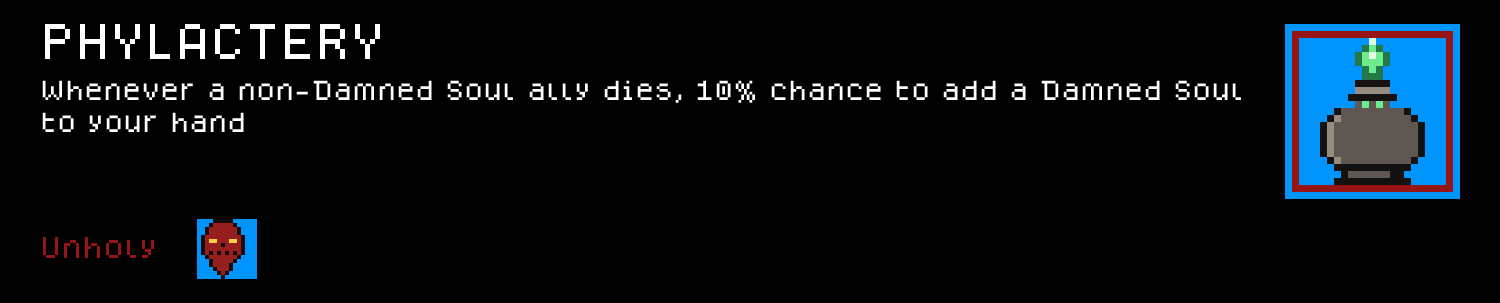
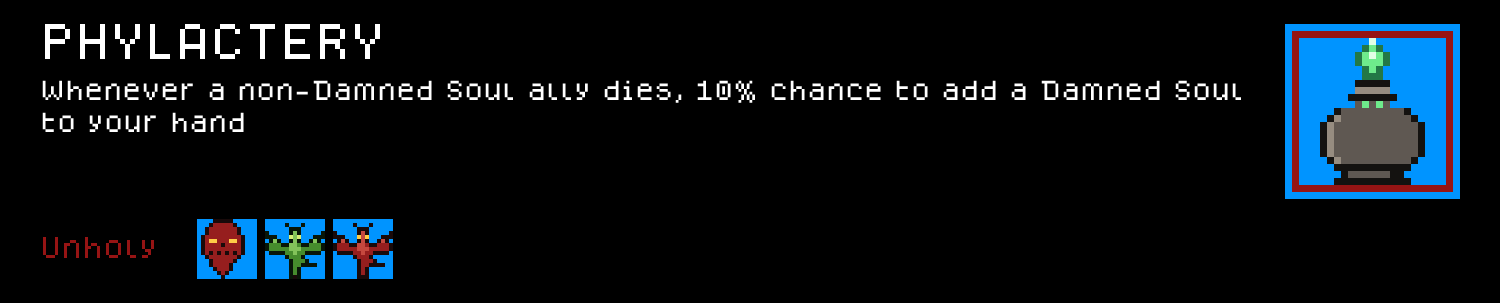
Read ReferenceCube: declarations for Referenced Cubes; fix README gaps
render_preview_cards.py's Referenced Cubes row was purely a CubeConstant/
HiddenCubeConstant heuristic scan, but the real authoritative mechanism is
the ReferenceCube: PERK field authors already use (dragon-egg lines, and
perks granting a random cube from a pool with no literal CubeConstant
token to scan). War_Dragon_Egg/Lichdom-style cards were rendering an empty
Referenced Cubes row despite explicit declarations, because their only
CubeConstant token was a self-reference the heuristic correctly excludes.
referenced_cubes_for() now reads ReferenceCube: first (not self-filtered),
falling back to the heuristic scan, and drops any name with no resolvable
icon instead of reserving blank footer space for it (caught on Great_Wall's
own terrain-cube references).

Also add General's Annex/Retreat and Unholy's Hellstorm to their READMEs
-- existing preview cards that were never linked in, found via an
audit-all-mods pass prompted by the user noticing Annex/Retreat missing.

Changed region(s): [[0.1533, 0.7129, 0.276, 0.9208]]

diff --git a/.claude/skills/cube-chaos-sprite-art/scripts/render_preview_cards.py b/.claude/skills/cube-chaos-sprite-art/scripts/render_preview_cards.py
@@ -1283,12 +1283,59 @@ def build_cube_icon_index(mod_dir, mod_prefix):
             for i, b in enumerate(blocks)}
 
 
+REFERENCE_CUBE_RE = re.compile(r'^ReferenceCube:\s*(\w+)')
+
+
 def referenced_cubes_for(lines, self_name):
-    """find_referenced_cubes + CUBE_NAME_TO_ICON icon lookup, in one call --
-    the common path every card category (CUBE and PERK alike) uses to build
-    its `ref_cubes` list for render_card/render_cube_card's footer row."""
-    ref_names = find_referenced_cubes(lines, self_name, COMPOUND_DOCS)
-    return [(n, CUBE_NAME_TO_ICON.get(n)) for n in ref_names]
+    """The common path every card category (CUBE and PERK alike) uses to
+    build its `ref_cubes` list for render_card/render_cube_card's footer
+    row. Two sources, combined:
+    1. Explicit `ReferenceCube: <Name>` declarations -- a real, repeatable
+       `PERK:` field (see cube-chaos-scripting's authoring-and-inheritance.md,
+       confirmed real usage e.g. Cryomancer.c.txt:68-70) that an author uses
+       specifically to curate a perk's tooltip cube list -- e.g. an egg perk
+       declaring its whole egg/baby/adult chain (General's `War_Dragon_Egg`
+       declares all 3 stages), or a perk that grants a RANDOM cube from a
+       pool declaring every possible pick (Unholy's `Lichdom` declares
+       `Damned_Soul`/`Plague_Imp`/`Imp`, none of which appear as a literal
+       `CubeConstant` token anywhere in its own Ability: chain -- the actual
+       selection goes through `ARandomCubeInLibraryWhich`-style productions
+       the heuristic scan below has no way to enumerate). These are
+       AUTHORITATIVE and NOT self-name-filtered -- a perk can and does
+       legitimately declare a `ReferenceCube:` matching its own name (e.g.
+       `War_Dragon_Egg` itself lists `ReferenceCube: War_Dragon_Egg`, to
+       show the exact cube it grants), unlike the heuristic scan's
+       self-exclusion. Missed entirely until 2026-08-02 -- this script had
+       no `ReferenceCube:` support at all, so any perk whose own Ability:
+       chain only referenced ITSELF (e.g. `War_Dragon_Egg`'s
+       `FreeCopy CubeConstant War_Dragon_Egg`) rendered with an empty
+       Referenced Cubes row despite explicitly declaring 3 relevant cubes.
+    2. The `find_referenced_cubes` heuristic scan (`CubeConstant`/
+       `HiddenCubeConstant` tokens), for cubes a perk creates/copies/obtains
+       but never explicitly declared -- still useful as a fallback for
+       perks with no `ReferenceCube:` field of their own (most of them).
+    Declared names come first (file-declaration order), then any
+    heuristic-found names not already covered, deduped."""
+    declared = []
+    for l in lines:
+        m = REFERENCE_CUBE_RE.match(l)
+        if m:
+            declared.append(m.group(1))
+    seen = set(declared)
+    names = list(declared)
+    for n in find_referenced_cubes(lines, self_name, COMPOUND_DOCS):
+        if n not in seen:
+            seen.add(n)
+            names.append(n)
+    # Drop any name with no resolvable icon (a genuinely cross-mod/base-game
+    # reference, or -- as with Great_Wall's ReferenceCube: Anchored_Basalt/
+    # Water/Catapult -- a name that isn't in ANY _Cubes.c.txt at all, e.g. a
+    # terrain-scenario TOKEN cube defined inline elsewhere) rather than
+    # keeping a name-less blank entry: since this footer never shows text
+    # (see draw_footer_row), an icon-less entry contributes nothing visible
+    # but still reserved a full footer row's worth of vertical space --
+    # caught by eye comparing Great_Wall's card before/after this fix.
+    return [(n, CUBE_NAME_TO_ICON[n]) for n in names if n in CUBE_NAME_TO_ICON]
 
 
 def build_cubes():

diff --git a/.claude/skills/cube-chaos-sprite-art/SKILL.md b/.claude/skills/cube-chaos-sprite-art/SKILL.md
@@ -558,7 +558,10 @@ Key facts baked into that script, established by reverse-engineering the game's 
   2. Dropped the "Referenced Cubes:" text label — icon(s) immediately next to the class/species entry read as self-explanatory without it.
   3. Dropped the class/species ICON (kept the name, in its own color) and dropped each referenced cube's NAME (kept the icon) — both name/icon pairs had become redundant once shown side-by-side with the other half of the row.
   - **Class/species name**, in that class/species's own color. `find_class_species()` reads slot 0 of whichever file `perks_source_basenames()` finds first — confirmed across every mod that has one (DJ/General/Broker's class perk, Unholy/Voidling's species perk) that this is always the file's first `PERK:` block, matching the "Base class/species icon style" fill-equals-border convention above. **Sample the color with `sample_dominant_color()`, which excludes the SHEET's own default background `(0,148,255)`, not this script's black card-canvas `BG`** — an early version of this popped the wrong background color and returned the sheet's blue as "the class color" for Unholy (verified: a guaranteed-blank/mostly-background tile is ~72% `(0,148,255)` pixels vs ~28% the real `(150,20,20)` icon/border color). Mods with no class/species of their own (`Great_Wall`, `Home_Turf_Advantage` — Terrain/Neutral-only) simply omit that half of the row. Computed once per mod into the `CLASS_SPECIES` global (`render_mod()`), not per card — every category shares the same value.
-  - **Referenced cubes**: any cube a `CUBE:`/`PERK:` block's own lines create/copy/obtain via a `CubeConstant <Name>`/`HiddenCubeConstant <Name>` token pair (`find_referenced_cubes` — a `CUBE`-typed arg is always spelled as that keyword plus the name, never the name alone, same fact `resolve_builtin_ability_text` already relies on). Scans the WHOLE block body, not just top-level lines, since these references usually live on indented sub-lines of a chain (or, for a `PERK:`, an `ObtainAction: AddCubeToDeck/AddCubeToInventory CubeConstant <Name>` line — confirmed working via DJ's own `PERK: DJ`, which obtains `Microphone`/`Speaker` this way). **Also expands one hop into a bare top-level `Ability: <CompoundName>` grant's own body** — DJ's `Speaker` grants `Ability: SpeakerNoteSpawn` with zero inline args, and it's `SpeakerNoteSpawn`'s own body (not Speaker's) that contains `CubeConstant Note`. Not followed recursively past one hop. **Excludes any `SetSpriteToCube CubeConstant <Name>` target** — that's the "directional cube icon" sprite-swap pattern (`_Arc`/`_West` icon-only helper cubes, see below), not a cube actually being created; real case caught reading rendered cards back: General's `Bomber`/`Drop_Helicopter`/`Baby_War_Dragon` each swap to a `_West` icon-only twin when reversing direction, and that swap target was showing up as if it were a spawned cube. A referenced name resolves to a real icon via the `CUBE_NAME_TO_ICON` global (`build_cube_icon_index()`, this mod's own `_Cubes.c.txt`/sheet, computed once per mod in `render_mod()` and shared by every card category — a `PERK:` card resolves against the same pool as a `CUBE:` card, not a separate lookup); a name not found there (base game, another mod — none exist in this repo's mods yet) shows nothing for that entry rather than crashing.
+  - **Referenced cubes, from TWO sources (`referenced_cubes_for()`), declared names first:**
+    1. **Explicit `ReferenceCube: <Name>` declarations — the actual authoritative mechanism, missed entirely until 2026-08-02.** `ReferenceCube:` is a real, repeatable `PERK:` field (see `cube-chaos-scripting/references/authoring-and-inheritance.md`, confirmed real usage e.g. `Characters/Classes/Cryomancer.c.txt:68-70`) that an author uses specifically to curate a perk's tooltip cube list — this repo's own mods already use it for every dragon-egg-line perk (e.g. General's `War_Dragon_Egg` declares `War_Dragon_Egg`/`Baby_War_Dragon`/`War_Dragon`, showing the whole evolution chain even though the perk's own `Ability:` only ever grants itself) and for perks that grant a cube from a random pool where no single literal `CubeConstant` token exists to scan (Unholy's `Lichdom` declares `Damned_Soul`/`Plague_Imp`/`Imp`, none of which appear as a literal `CubeConstant` anywhere in its body — the actual pick goes through an `ARandomCubeInLibraryWhich`-style production). **Not self-name-filtered** — `War_Dragon_Egg` legitimately declares `ReferenceCube: War_Dragon_Egg` (its own name) to show the exact cube it grants, unlike source 2 below. Real regression this fix caught: before it, `War_Dragon_Egg`'s card rendered with an EMPTY Referenced Cubes row despite 3 explicit declarations, because its only `CubeConstant` token (`FreeCopy CubeConstant War_Dragon_Egg`) was a self-reference the heuristic scan correctly excludes — the heuristic was never the real mechanism for this case, `ReferenceCube:` was.
+    2. **The heuristic scan** (`find_referenced_cubes`): any cube a `CUBE:`/`PERK:` block's own lines create/copy/obtain via a `CubeConstant <Name>`/`HiddenCubeConstant <Name>` token pair (a `CUBE`-typed arg is always spelled as that keyword plus the name, never the name alone, same fact `resolve_builtin_ability_text` already relies on). Scans the WHOLE block body, not just top-level lines, since these references usually live on indented sub-lines of a chain (or, for a `PERK:`, an `ObtainAction: AddCubeToDeck/AddCubeToInventory CubeConstant <Name>` line — confirmed working via DJ's own `PERK: DJ`, which obtains `Microphone`/`Speaker` this way). **Also expands one hop into a bare top-level `Ability: <CompoundName>` grant's own body** — DJ's `Speaker` grants `Ability: SpeakerNoteSpawn` with zero inline args, and it's `SpeakerNoteSpawn`'s own body (not Speaker's) that contains `CubeConstant Note`. Not followed recursively past one hop. **Excludes any `SetSpriteToCube CubeConstant <Name>` target** — that's the "directional cube icon" sprite-swap pattern (`_Arc`/`_West` icon-only helper cubes, see below), not a cube actually being created; real case caught reading rendered cards back: General's `Bomber`/`Drop_Helicopter`/`Baby_War_Dragon` each swap to a `_West` icon-only twin when reversing direction, and that swap target was showing up as if it were a spawned cube. This heuristic is now purely a fallback for perks/cubes with no `ReferenceCube:` field of their own (most of them), self-name-excluded as before (a self-reference from an incidental copy operation isn't the same signal as an explicit author declaration).
+    - A referenced name resolves to a real icon via the `CUBE_NAME_TO_ICON` global (`build_cube_icon_index()`, this mod's own `_Cubes.c.txt`/sheet, computed once per mod in `render_mod()` and shared by every card category — a `PERK:` card resolves against the same pool as a `CUBE:` card, not a separate lookup). **A name with no resolvable icon is dropped entirely, not kept as a name-less blank entry** — since this footer never shows text, an icon-less entry contributed zero visible content but still reserved a full footer row's worth of blank vertical space (caught comparing Great_Wall's `Great_Wall` terrain-perk card before/after this fix — its `ReferenceCube: Anchored_Basalt`/`Water`/`Catapult` name terrain-scenario `TOKEN` cubes that live outside any `_Cubes.c.txt`, so none resolve to an icon, and the card had grown a blank gap at the bottom for nothing).
 - **A `CUBE` with a `TRIGGER`-type `Animation:` line also gets a looping `.gif` next to its static card** (`<ModPrefix>_Cubes_<CubeName>_<AnimName>.gif`, added 2026-07-30), so a README can actually show the flourish instead of just a static icon. `build_cube_animation_gifs()` reads the frame order/speed straight from the real `Animation:` line (see `cube-chaos-scripting`'s `cube-animation.md` for why the LAST frame is the idle pose, not frame 0, and why each flourish frame's duration is `Thresholds[i+1] * 16ms`) — the only liberty taken is compressing the idle pause between triggers to a fixed `GIF_IDLE_REST_MS` instead of the cube's real (often many-second) cadence, so the loop stays watchable. Only `TRIGGER` is handled; `CLOCK`/`HP`/`DOUBLE`/`BOOLEAN`/`TIME` would each need their own playback logic if a mod ever uses one. **README convention: a compact `<table>` right after the cube's static card, 2 animation entries per row** — each entry is a (trigger condition, gif) pair (e.g. `On Cube Creation` for DJ's `Speaker`, whose animation is tied to the ability that creates its Note), `valign="middle"` on every cell, and a new row starts after every 2nd entry (a mod with an odd number of animated cubes just leaves the last row's second pair absent — don't pad it with an empty cell). **No inline `style=` attribute for borders/padding — GitHub's README sanitizer strips the `style` attribute entirely, so any attempt to suppress or customize cell borders (e.g. `border: none`, a single divider line between the two entry-pairs) silently does nothing; what actually renders is GitHub's own default `.markdown-body table` CSS, which always draws a full grid line around every cell of every `<table>`, with no author override available.** Confirmed 2026-07-30: an earlier version of this doc/README specified inline `border-collapse`/`border: none` styling for an outline-only look, which looked right when read as raw HTML but rendered with full grid lines once pushed to GitHub. Plain unstyled `<table>`/`<tr>`/`<td valign="middle">` is now the deliberate convention — don't re-attempt CSS-based border control here, it cannot work on GitHub. **Size the gif's `<img width=...>` to match how big the icon actually renders inside the static card, not the gif's own native pixel size** — the static card is a fixed `W=1500`px canvas displayed at `width="700"` (a `700/1500` ≈ 0.467× shrink), so a `scale`-upscaled icon that's natively `150px` (15×10, DJ's cube scale) renders on-screen at only `150 × 700/1500 = 70px` inside that card. The gif itself is generated at the same native `150px`, so displaying it at `width="150"` makes it look ~2× bigger than the same icon looks in the card right above it — set `width="70"` (or recompute `icon_px * card_display_width / W` for a different mod's numbers) instead.
 - **Every `IsUpgradeFrom:` perk's own card is itself an animated `.gif`** (`<ModPrefix>_Perks_<PerkName>.gif`, same name/slot a static `.png` would otherwise use — added 2026-08-01, corrected same day) — a white diagonal line, oriented like a `/` (one end lower-left, one end upper-right), that translates down-and-right across the perk's icon (entering near the top-left corner, exiting near the bottom-right), pausing a couple seconds between sweeps. This is the real in-game visual cue that a reward perk is an upgrade of a base one — described to this skill secondhand by the user (no DSL/sprite source to read, since it's a fixed engine UI effect applied to the whole "is an upgrade" category, not per-item data) and confirmed correct by reading the rendered gif's own frames back before calling it done. **Scope: `IsUpgradeFrom:` reward-perk chains specifically (the ones living in `<ModPrefix>_UpgradePerks.c.txt`, or occasionally mixed into a regular Perks/Species file) — NOT `BelongsTo: CubeUpgrade` perks** (a different, unrelated mechanic — a perk that upgrades a chosen cube, e.g. Unholy's `Wildcard_Upgrade`), confirmed explicitly with the user since both share the word "upgrade" and the request could have meant either.
   - **The whole card animates in place, not a separate companion file.** A first version generated a small standalone `_Shine.gif` of just the icon, shown as an *extra* image below the static card (mirroring the CUBE `Animation:` gif's own companion-file convention) — user feedback (2026-08-01) was that the shine belongs IN the existing preview image itself, not bolted on beside it. Fixed by re-rendering the FULL card once per shine frame inside `build_perks()`'s `render_block()` (varying only the icon argument, so title/desc/value/footer stay pixel-identical across frames — `render_card()` is deterministic in everything else) and returning `(name, ("gif", card_frames, durations))` instead of a plain `Image`. `render_mod()`'s generic per-category save loop now checks for that `("gif", ...)` tuple shape on ANY card (not just a `"Perks"`-category special case) and saves an animated `.gif` instead of a `.png` when it sees one — the stale-file cleanup already keyed on `written` filenames handles the extension switch for free (an old `.png` of the same perk, or the old separate `_Shine.gif`, both just stop appearing in `written` and get deleted like any other stale file). README convention is now simplest of all: no extra line needed, just the perk's existing `<img>` line's `.png` extension becomes `.gif` (GitHub renders an animated gif in a plain `<img>` tag same as a static one).

diff --git a/GameData/Unholy/README.md b/GameData/Unholy/README.md
@@ -22,6 +22,7 @@ Each card below is rendered to match the game's own in-game tooltip style (same 
 <img src="Preview/Unholy_Cubes_Baby_Hell_Dragon.png" width="700" alt="Baby Hell Dragon cube card">
 <img src="Preview/Unholy_Cubes_Hell_Dragon.png" width="700" alt="Hell Dragon cube card">
 <img src="Preview/Unholy_Cubes_Blood_Totem.png" width="700" alt="Blood Totem cube card">
+<img src="Preview/Unholy_Cubes_Hellstorm.png" width="700" alt="Hellstorm cube card">
 <img src="Preview/Unholy_Cubes_Hell_Portal.png" width="700" alt="Hell Portal cube card">
 
 ### Perks

diff --git a/GameData/General/README.md b/GameData/General/README.md
@@ -49,6 +49,8 @@ Each card below is rendered to match the game's own in-game tooltip style (same 
 <img src="Preview/General_Cubes_War_Dragon_Egg.png" width="700" alt="War Dragon Egg cube card">
 <img src="Preview/General_Cubes_Baby_War_Dragon.png" width="700" alt="Baby War Dragon cube card">
 <img src="Preview/General_Cubes_War_Dragon.png" width="700" alt="War Dragon cube card">
+<img src="Preview/General_Cubes_Annex.png" width="700" alt="Annex cube card">
+<img src="Preview/General_Cubes_Retreat.png" width="700" alt="Retreat cube card">
 
 ### Curses
 
